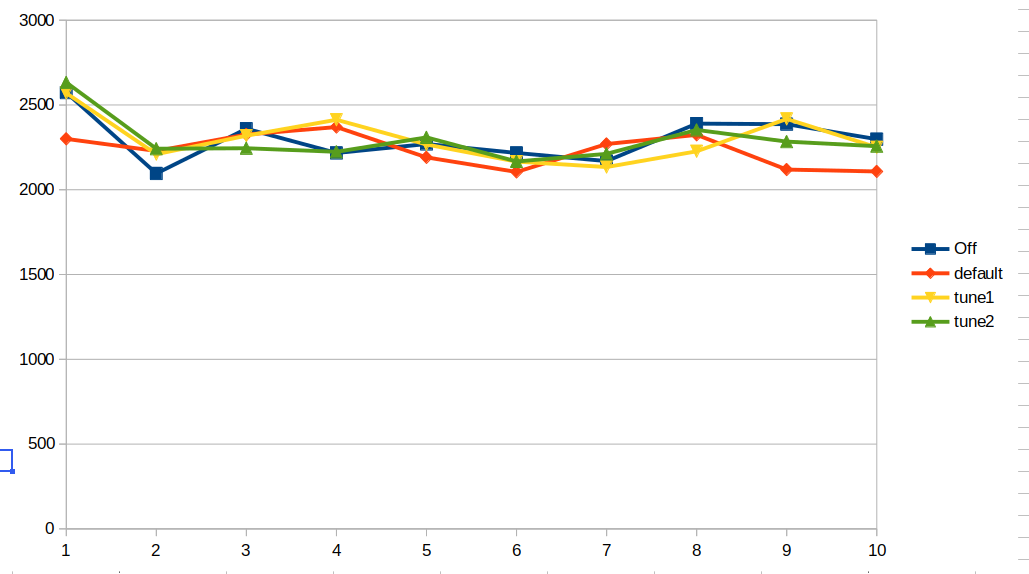
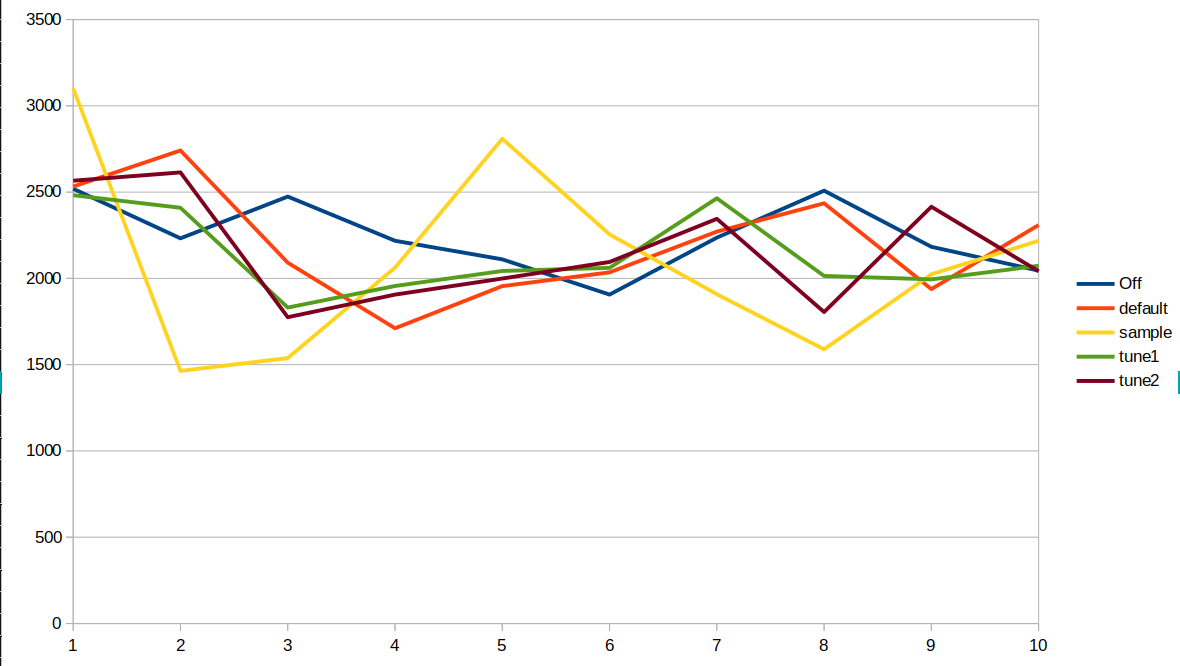
vacuum dz

diff --git a/8. MVCC, vacuum, autovacuum/README.md b/8. MVCC, vacuum, autovacuum/README.md
@@ -39,7 +39,7 @@ wal_buffers = 16MB
 default_statistics_target = 500
 random_page_cost = 4
 effective_io_concurrency = 2
-work_mem = 6553kB
+work_mem = 8MB
 min_wal_size = 4GB
 max_wal_size = 16GB
 ```
@@ -65,44 +65,43 @@ done in 26.70 s (drop tables 0.01 s, create tables 0.02 s, client-side generate 
 2. далее выполняем несколько синтетических тестов с помощью утилиты pgbench.
     Выполнять будем с разными настройками автовакуума.
     - тест с выключенным автовакууумом;
-    - тест с автовакуумом, настроенным поумолчанию
-    - тест с измеменнными парамертами(агрессивные параметры)
-    - тест с параметрами, показавшими меньшее расхождение ппоказателя tps.
+    - тест с автовакуумом, настроенным по-умолчанию
+    - тест с измененными параметрами(как пример взял из занятия)
+    - тесты с параметрами, показавшими меньшее расхождение ппоказателя tps.
 
 Параметры тестирования:
   - 8 коннектов в течении 10 минут.
 
-Пример результата при выключенном автовакууме:
+Пример результата одного из тестов
 
 ```bash
 postgres@pg14-srv01:~/14/main$ pgbench -c 8 -P 60 -T 600 testdb
 pgbench (14.6 (Ubuntu 14.6-1.pgdg20.04+1))
 starting vacuum...end.
-progress: 60.0 s, 2573.2 tps, lat 3.063 ms stddev 2.434
-progress: 120.0 s, 2096.9 tps, lat 3.771 ms stddev 3.724
-progress: 180.0 s, 2360.4 tps, lat 3.348 ms stddev 3.370
-progress: 240.0 s, 2217.1 tps, lat 3.565 ms stddev 3.542
-progress: 300.0 s, 2270.7 tps, lat 3.482 ms stddev 3.605
-progress: 360.0 s, 2217.8 tps, lat 3.564 ms stddev 3.511
-progress: 420.0 s, 2169.7 tps, lat 3.643 ms stddev 3.503
-progress: 480.0 s, 2390.8 tps, lat 3.303 ms stddev 3.003
-progress: 540.0 s, 2387.5 tps, lat 3.311 ms stddev 3.100
-progress: 600.0 s, 2298.0 tps, lat 3.433 ms stddev 3.455
+progress: 60.1 s, 1569.9 tps, lat 5.074 ms stddev 12.214
+progress: 120.0 s, 2120.0 tps, lat 3.778 ms stddev 11.244
+progress: 180.0 s, 2516.7 tps, lat 3.172 ms stddev 4.479
+progress: 240.0 s, 2160.6 tps, lat 3.699 ms stddev 6.222
+progress: 300.0 s, 2282.6 tps, lat 3.500 ms stddev 7.389
+progress: 360.0 s, 1453.0 tps, lat 5.499 ms stddev 12.215
+progress: 420.0 s, 1993.5 tps, lat 4.007 ms stddev 7.493
+progress: 480.0 s, 2317.4 tps, lat 3.447 ms stddev 5.218
+progress: 540.0 s, 2118.7 tps, lat 3.770 ms stddev 7.211
+progress: 600.0 s, 2055.5 tps, lat 3.885 ms stddev 9.454
 transaction type: <builtin: TPC-B (sort of)>
 scaling factor: 100
 query mode: simple
 number of clients: 8
 number of threads: 1
 duration: 600 s
-number of transactions actually processed: 1378938
-latency average = 3.438 ms
-latency stddev = 3.333 ms
-initial connection time = 22.267 ms
-tps = 2298.245555 (without initial connection time)
-
+number of transactions actually processed: 1235255
+latency average = 3.880 ms
+latency stddev = 8.406 ms
+initial connection time = 19.554 ms
+tps = 2058.812309 (without initial connection time)
 ```
 
-параметры "агрессивные"(рекомендация с занятия, протестировано):
+параметры из примера:
 ```text
 autovacuum_vacuum_scale_factor = '0.05'
 log_autovacuum_min_duration = '0'
@@ -113,6 +112,22 @@ autovacuum_vacuum_cost_delay = '10'
 autovacuum_vacuum_cost_limit = '1000'
 ```
 
+параметры tune1:
+
+```text
+log_autovacuum_min_duration = '0'
+autovacuum_vacuum_scale_factor = '0.08'
+autovacuum_vacuum_insert_scale_factor = '0.08'
+log_autovacuum_min_duration = '0'
+autovacuum_max_workers = '4'
+autovacuum_naptime = '15s'
+autovacuum_vacuum_threshold = '20'
+autovacuum_vacuum_cost_delay = '10'
+autovacuum_vacuum_cost_limit = '1000'
+autovacuum_analyze_scale_factor = '0.2'
+```
+
+
 Далее результаты покажу просто в виде таблицы и графика.
 
  ![table_result][1]
@@ -121,8 +136,8 @@ autovacuum_vacuum_cost_limit = '1000'
 
  - off - результаты без автовакуума
  - default - параметры автовауума по умолчанию
- - tune1 - настройка из примера с занятия
- - tune2 - результаты, полученные после нескольких тестов и изменениями параметров автовакуума.
+ - sample - настройка из примера с занятия
+ - tune1,2 - результаты, полученные после нескольких тестов и изменениями параметров автовакуума.
 
  ![chart][2]
 
@@ -142,8 +157,5 @@ autovacuum_vacuum_cost_delay = '10'
 autovacuum_vacuum_cost_limit = '1000'
 ```
 
-плюс для самой большой таблицы добавил параметр autovacuum_vacuum_threshold=500.
-
-В таблице видно, что общее количество транзакции проседало только при дефолтных настройках, после изменения количество приблизилось к исходному.
-Но  реальные данные могут сильно отличаться от результатов синтетических тестов.
+В результате множественных тестов я не пришел к какому-то единому решению. Разные варианты настроек при повторных тестах дают не совпадающие результаты. В приведенных примерах более менее, на мой взгляд, получилось добиться ровности в варианте tune1, где меньше всего скачков tps.  Неоднозначность показаний может зависеть от разных моментов, в том числе от стенда(пробовал вариант с размещением vdi диска с данными на отдельном ssd диске). И стоит отметить что синтетические тесты pgbench очень далеки от реальной работы систем с БД.
 
